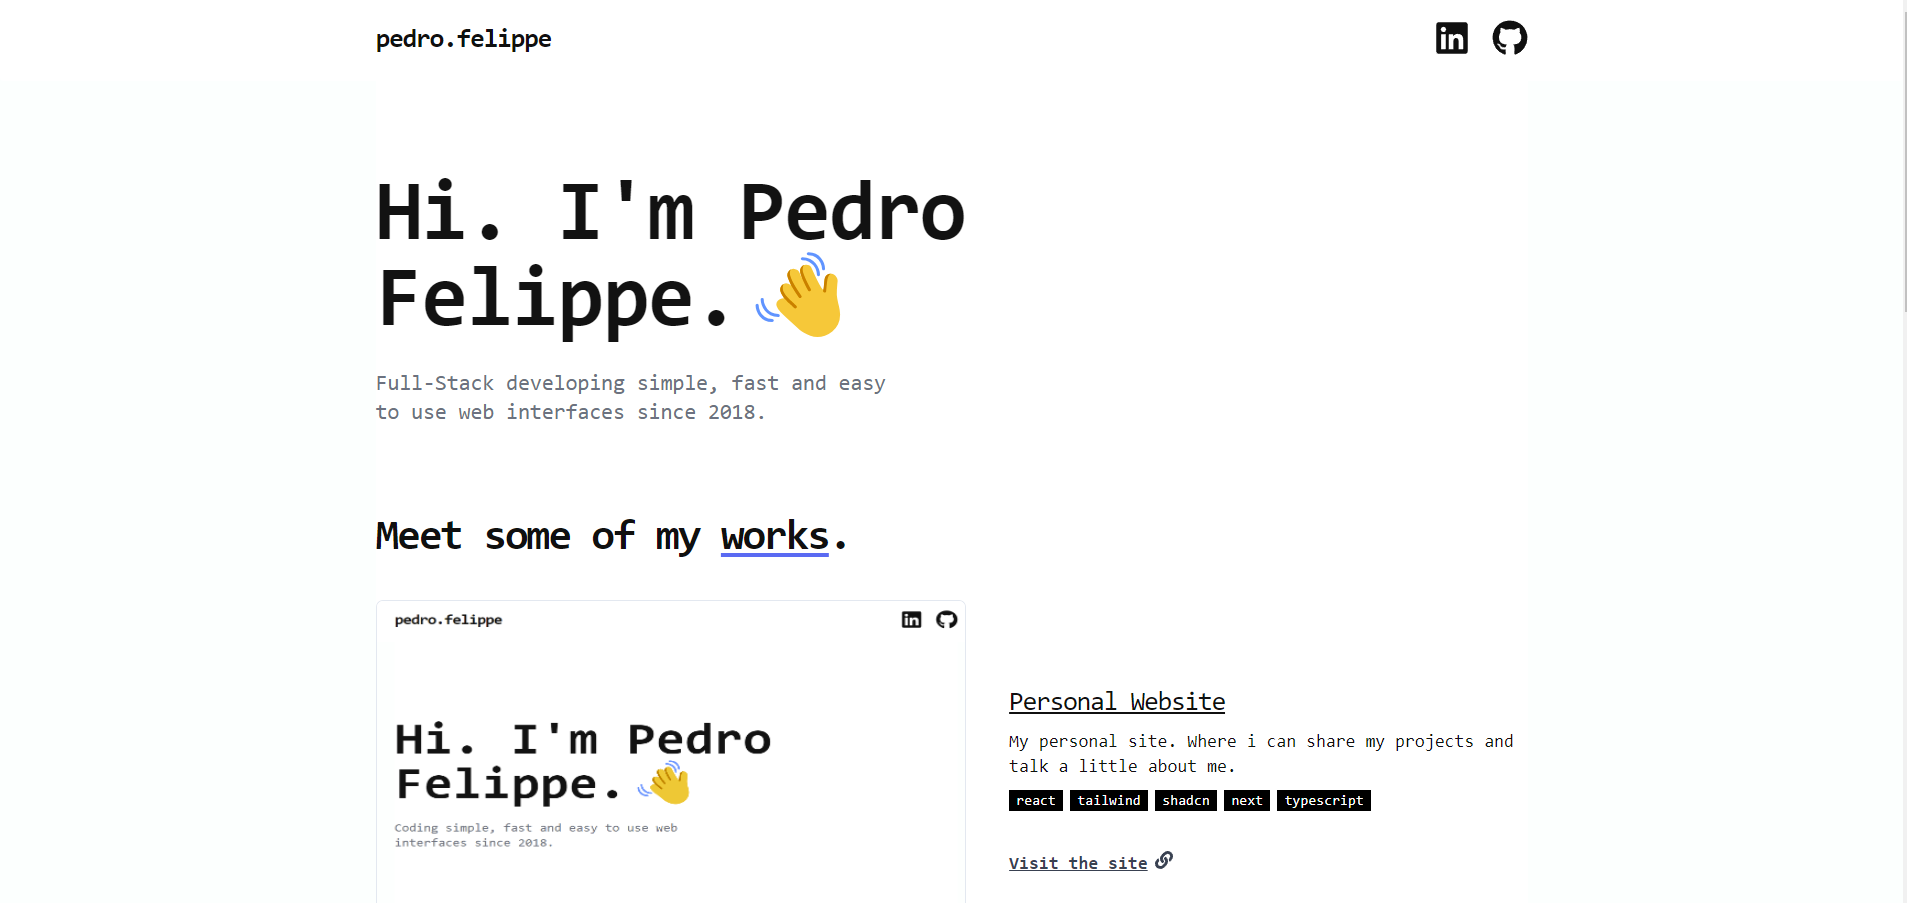
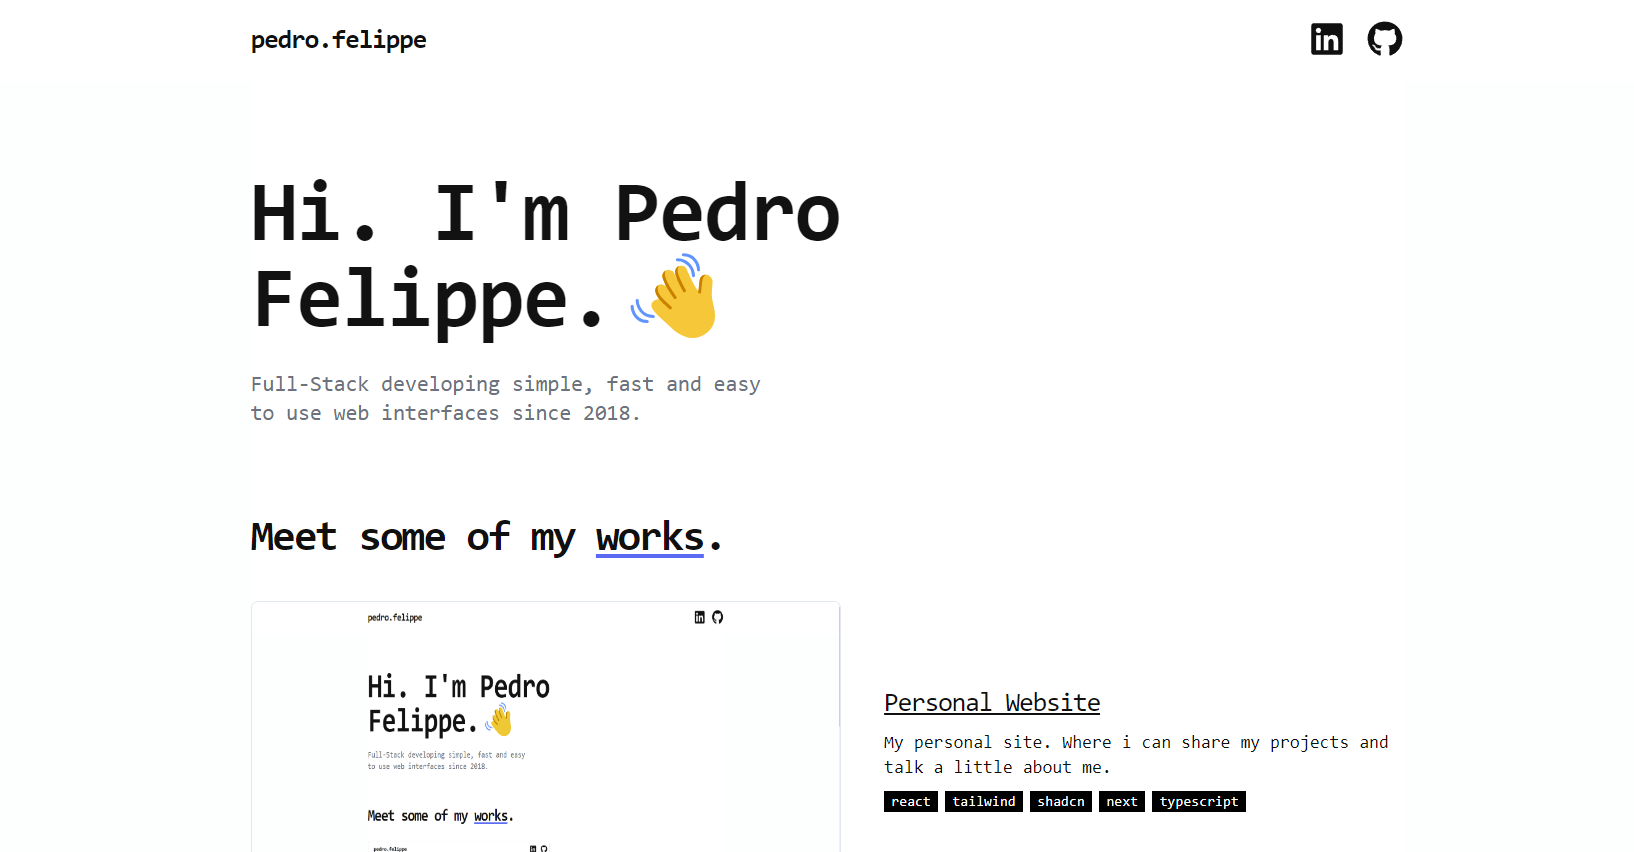
images

diff --git a/src/components/ProjectCard.tsx b/src/components/ProjectCard.tsx
@@ -35,7 +35,7 @@ function ProjectCard({
             }}
             src={imgUrl}
             alt="card image"
-            className=" object-cover  transition-all flex w-full h-[350px] md:h-[400px] "
+            className="  transition-all flex w-full h-[350px] md:h-[400px] "
             />
           </Link>
       </div>
